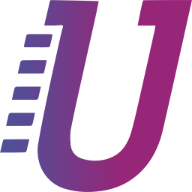
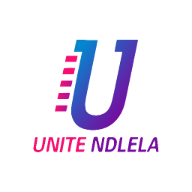
version 1.4

diff --git a/flutter_service_worker.js b/flutter_service_worker.js
@@ -23,11 +23,11 @@ const RESOURCES = {
 ".git/hooks/prepare-commit-msg.sample": "2b5c047bdb474555e1787db32b2d2fc5",
 ".git/hooks/push-to-checkout.sample": "c7ab00c7784efeadad3ae9b228d4b4db",
 ".git/hooks/update.sample": "647ae13c682f7827c22f5fc08a03674e",
-".git/index": "fddaeb541bce783ef5b2a144e7793fe2",
+".git/index": "ce8d378a9d6a5854b61f6752a1e97d12",
 ".git/info/exclude": "036208b4a1ab4a235d75c181e685e5a3",
-".git/logs/HEAD": "c207a860883a5e13a21306425f011d3e",
-".git/logs/refs/heads/main": "8277b6ca018b20000b7dcf6530204682",
-".git/logs/refs/remotes/origin/main": "8b555d0ed8e203f84ccf4ac970fd8dc4",
+".git/logs/HEAD": "de72ebb06e70d5e96a0122da6229db64",
+".git/logs/refs/heads/main": "529ca8090b5eb760b3e622e7d9f23071",
+".git/logs/refs/remotes/origin/main": "b80a549d290dc685bf54a2465691223b",
 ".git/objects/00/026e1668d41c7fd15eee845d0bcfd931ce1a2f": "66e368aa8e654e803a5d44556017a4bf",
 ".git/objects/00/2652d4c7f21cc91ea180f7ce7ce125e62679d3": "7d25775374ca0a23a1ac286c686e06de",
 ".git/objects/00/35d2796981ea9cdf89910ed8821c4d0bd180a9": "086b56f5a2d0a1bf8731c0bf95dbcfa1",
@@ -259,6 +259,7 @@ const RESOURCES = {
 ".git/objects/1c/d025961bc821fcbc63005dca001a4a963afb56": "b7fda456806e25d4174210cc5f964d5d",
 ".git/objects/1d/03a5ab40165fb1e2f0723f7f39797b13fb72b4": "2e2048b25ea6fc6d59b295ffc091999a",
 ".git/objects/1d/1c7ec32871a4793ab389c6355661a13ed0b1c0": "a3c9a999d05985b4f0d8f015b40bb94c",
+".git/objects/1d/41bd27eff7a6f170f15c13f289626a5e9cf93f": "2e398983bf7f9e52727b9c5db34b6c34",
 ".git/objects/1d/817ac2582340c4cfe35f4f08357faba4bf309a": "a5469e43b11f568b98233e65b4a693d4",
 ".git/objects/1d/85c72704c7b937d35344e2973a0178c0dcf97d": "c5b81e6c6614d96cf15b8a4d52baf4b9",
 ".git/objects/1d/b9bb3c92df6293eaf9179643fc678c0ffa0367": "bdc443080f0081772c8a6dc8d390e828",
@@ -1371,6 +1372,7 @@ const RESOURCES = {
 ".git/objects/a2/1f7e763698517441cc3ad889d0dc364ef16327": "f0d80fb6b5368fa6f1a19a376c0a9418",
 ".git/objects/a2/88279585677b75a55c0e62699982d1d462d72f": "963ac61acd84de3cd62a0b9e5c156cfe",
 ".git/objects/a2/d06391063b088fd847c7ef7a6e1cde23648990": "148f77a91d1d71f79c0e80dbe3f248e7",
+".git/objects/a2/d2ddbc4995801169808b8fc3df52c60538f692": "8dfb20d440087d404a3f34ccc945670a",
 ".git/objects/a2/da26cc52539c420656250cd10dcb38664c9837": "12d4b20a7c1002d4b3861603f3f08b50",
 ".git/objects/a2/de26c7e0773dc9a7dedd9c3453d5dc274ee49a": "a9f8099cb95e56e6b5b17939da2a5a94",
 ".git/objects/a3/117d8b8ec528fe57f9fc2abf699d0e0c17db87": "9c3f810c819e99cdf702829ea0883205",
@@ -1394,6 +1396,7 @@ const RESOURCES = {
 ".git/objects/a6/9a72bb24bbb0c39dc89ff200a0fb7fe09179b4": "ff95bbdf2af33f2965a00f20b18b6b41",
 ".git/objects/a6/a3e3ec936ba72cd04eb836d8bfeb78e94c4e24": "38d4af833edf239414d0ba868eecef89",
 ".git/objects/a6/c751d708198b5af66d729fb24ed7bde121cdb0": "936c82ef7b90807651694ff31f325c2f",
+".git/objects/a6/c7f51aee79ff44e6713f22007dd5930a0a996e": "1b8a21cadd7bf591998c38225893ed77",
 ".git/objects/a6/df0c0705640cef6da393dfe5e27cc204601d69": "6e281dadc85dfb0ebf601ee848b819b7",
 ".git/objects/a6/fafb1943aa81b4385f432f993a6e7faf48343a": "8a1453a221cb307a0f040874a5d2af5c",
 ".git/objects/a7/7b26afcfefabe704ca0e16aef5896345e265be": "a4c4c181a9427c976ebde78a3545842b",
@@ -1724,6 +1727,7 @@ const RESOURCES = {
 ".git/objects/cc/aa007d1167a1abe34a51a237d080562b2414c7": "f4be5bbec1c75825f1298eb62f069224",
 ".git/objects/cc/aba1a86ca13fa394bfc3fa511bc5be0a20bb18": "8cc46accc2a7993da7a897c24d70cdd6",
 ".git/objects/cc/de899cbd7a2e521d01c177f1320314c40400e2": "d1de5b481f7f044287d9d0312fc95acd",
+".git/objects/cd/04044367ddf35492c7dc4a2c6ff33170971406": "0621d4dc7e95c7081d65ccaf77ab76cb",
 ".git/objects/cd/22076013ce8b84475eae9bb4cd6c60b5460fbe": "81c620e2d6cbe5638d6c90ee25886389",
 ".git/objects/cd/323497c9087c81c33b69a1a929e3971d0712be": "cd394f1d0d41c8422823587ffe3373b5",
 ".git/objects/cd/33a567fab17d904e50818a030e418551431347": "cfa79efb3c94fb0ed53ef88c74f5682e",
@@ -2141,6 +2145,7 @@ const RESOURCES = {
 ".git/objects/fb/99bcf005402a37d05e8acaf6669b3092f5a8cd": "6831b4f0a26630c4893f4adc206ed8aa",
 ".git/objects/fb/bfd48921556fe5f0e0fa6ec3086a3bcd3c250f": "2d4671223a4aa1d8d55c5c405c641e92",
 ".git/objects/fc/23e67f43fd73acdbaecc76cfa5b183c0df3827": "c4af622b2fed0f73bac09813b2a7ef73",
+".git/objects/fc/28242971b41f1773b390a679a388769ac09ca4": "86369e46406d8599e942ce75da8eb4ab",
 ".git/objects/fc/5733758ab1a8a9eb3762f8562e2fe4dcccace3": "3c3f0e337ba2496ee18f99a68e63a740",
 ".git/objects/fc/8ab97b2ed7c508f6b0865d5ae91eec977f2692": "c8ec0b7d98ac8fbf0be088be05993e73",
 ".git/objects/fc/a2d350e7da7ee23c9d9077a0991b169ee80e71": "346386d62ee0a5bf9d00a9307f992b45",
@@ -2166,8 +2171,8 @@ const RESOURCES = {
 ".git/objects/ff/aa2dc3119cb626df98defbd340ad69eb269ab7": "5edb0d6c17bd9b61433c144b858d1220",
 ".git/objects/ff/accb175d533921f57c24d173fef00ed0009d18": "fc1e10461e9ce5d4abd272cf528a3a26",
 ".git/objects/ff/b53b4f1a877fd904092f19ecb341128f1939a5": "5161d85b211f9bbd3eaa41299bb2c4a6",
-".git/refs/heads/main": "497593c1b0056df9c92a29241cea59d0",
-".git/refs/remotes/origin/main": "497593c1b0056df9c92a29241cea59d0",
+".git/refs/heads/main": "20612c4a5c2f790fb991786aaddc8bc6",
+".git/refs/remotes/origin/main": "20612c4a5c2f790fb991786aaddc8bc6",
 "analysis_options.yaml": "5df212687f3997ccd1310b5b19ebfb78",
 "assets/AssetManifest.json": "dadedd78899e32d0bb9b48ac81add71e",
 "assets/assets/fonts/sora/Sora-Bold.ttf": "8b24edfb87ce7942c970dbaeaa73a511",
@@ -2229,14 +2234,14 @@ const RESOURCES = {
 "canvaskit/canvaskit.wasm": "4b83d89d9fecbea8ca46f2f760c5a9ba",
 "canvaskit/profiling/canvaskit.js": "ae2949af4efc61d28a4a80fffa1db900",
 "canvaskit/profiling/canvaskit.wasm": "95e736ab31147d1b2c7b25f11d4c32cd",
-"favicon.ico": "11e4f1bce30af1759693bf03f7958aa0",
+"favicon.ico": "f0aaf4f8f18384a25126f24af579f3d0",
 "flutter.js": "0816e65a103ba8ba51b174eeeeb2cb67",
-"icons/Icon-192.png": "af03171b18c0110ee9c4544f3bfa3b3b",
-"icons/Icon-512.png": "072128423fde35bdfd77afd2ddcf6b31",
-"icons/Icon-maskable-192.png": "af03171b18c0110ee9c4544f3bfa3b3b",
-"icons/Icon-maskable-512.png": "072128423fde35bdfd77afd2ddcf6b31",
-"index.html": "8cae95d1fecc0177b0001afb25dc2be0",
-"/": "8cae95d1fecc0177b0001afb25dc2be0",
+"icons/Icon-192.png": "030325933c830da111f2e5b3f26c5bd5",
+"icons/Icon-512.png": "082f815015a6f55900d0f8a325a4eaa8",
+"icons/Icon-maskable-192.png": "030325933c830da111f2e5b3f26c5bd5",
+"icons/Icon-maskable-512.png": "082f815015a6f55900d0f8a325a4eaa8",
+"index.html": "c2496a66a01953eaeb7d9b25b83098f1",
+"/": "c2496a66a01953eaeb7d9b25b83098f1",
 "main.dart.js": "9d479f678eaac1f39afb3b283c274d1a",
 "main.dart.js_1.part.js": "7a8f8c4148704bb4f85f40bb56b8a7e9",
 "main.dart.js_10.part.js": "27b64d4495d17190114610132136683a",

diff --git a/index.html b/index.html
@@ -44,7 +44,7 @@
     }
 
     // The value below is injected by flutter build, do not touch.
-    var serviceWorkerVersion = '2860539609';
+    var serviceWorkerVersion = '3855493358';
   </script>
 
   <script>
